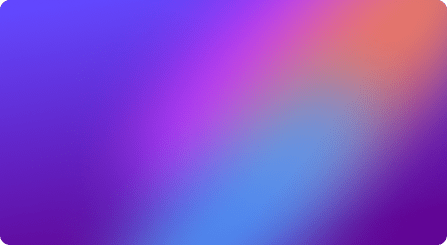
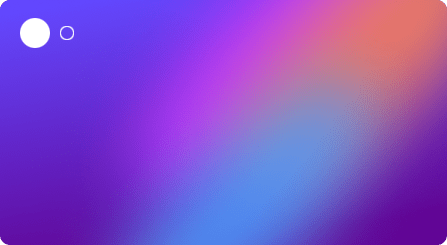
structure html

Changed region(s): [[0.0291, 0.0571, 0.1745, 0.2]]

diff --git a/index.html b/index.html
@@ -1,51 +1,53 @@
 <!DOCTYPE html>
 <html lang="en">
 <head>
-  <meta charset="UTF-8">
-  <meta name="viewport" content="width=device-width, initial-scale=1.0"> <!-- displays site properly based on user's device -->
+    <meta charset="UTF-8">
+    <meta name="viewport" content="width=device-width, initial-scale=1.0"> <!-- displays site properly based on user's device -->
 
-  <link rel="icon" type="image/png" sizes="32x32" href="./images/favicon-32x32.png">
-  
-  <title>Frontend Mentor | Interactive card details form</title>
+    <link rel="icon" type="image/png" sizes="32x32" href="./images/favicon-32x32.png">
+    <link rel="stylesheet" href="styles.css">
+    <title>Frontend Mentor | Interactive card details form</title>
 
-  <!-- Feel free to remove these styles or customise in your own stylesheet 👍 -->
-  <style>
-    .attribution { font-size: 11px; text-align: center; }
-    .attribution a { color: hsl(228, 45%, 44%); }
-  </style>
 </head>
 <body>
+<main>
+    <div id="cards-container">
+        <div class="card-back">
+            000
+        </div>
+        <div class="card-front">
+            <p class="card-number">0000 0000 0000 0000</p>
+            <p class="card-name">Jane Appleseed</p>
+            <p class="card-expiry">00/00</p>
+        </div>
+    </div>
+    <form id="state-incomplete">
+        <div class="form-control">
+            <label for="cardholder_name">Cardholder Name</label>
+            <input type="text" id="cardholder_name" name="cardholder_name" placeholder="e.g. Jane Appleseed"/>
+        </div>
+        <div class="form-control">
+            <label for="card_number">Card Number</label>
+            <input type="text" id="card_number" name="card_number" placeholder="e.g. 1234 5678 9123 0000"/>
+        </div>
+        <div class="form-control">
+            <label for="expiry_month">Expiry Date</label>
+            <input type="text" id="expiry_month" name="expiry_month" placeholder="MM"/>
+            <label><input type="text" id="expiry_year" name="expiry_year" placeholder="YY"/></label>
+        </div>
+        <div class="form-control">
+            <label for="cvc">CVC</label>
+            <input type="text" id="cvc" name="cvc" placeholder="e.g. 123"/>
+        </div>
+        <button type="submit">Confirm</button>
+    </form>
+    <div id="state-complete">
+        <img src="images/icon-complete.svg" alt="white tick on rainbow circle"/>
+        <h1>Thank you!</h1>
+        <p>We've added your card details</p>
+        <a href="#"><button>Continue</button></a>
+    </div>
+</main>
 
-  0000 0000 0000 0000
-  Jane Appleseed
-  00/00
-
-  000
-
-  Cardholder Name
-  e.g. Jane Appleseed
-
-  Card Number
-  e.g. 1234 5678 9123 0000
-
-  Exp. Date (MM/YY)
-  MM
-  YY
-
-  CVC
-  e.g. 123
-
-  Confirm
-
-  <!-- Completed state start -->
-
-  Thank you!
-  We've added your card details
-  Continue
-  
-  <div class="attribution">
-    Challenge by <a href="https://www.frontendmentor.io?ref=challenge" target="_blank">Frontend Mentor</a>. 
-    Coded by <a href="#">Your Name Here</a>.
-  </div>
 </body>
 </html>

diff --git a/styles.css b/styles.css
@@ -6,4 +6,8 @@
   font-family: "Space Grotesk", sans-serif;
 }
 
+#cards-container {
+  background-image: url("images/bg-main-mobile.png");
+}
+
 /*# sourceMappingURL=styles.css.map */
